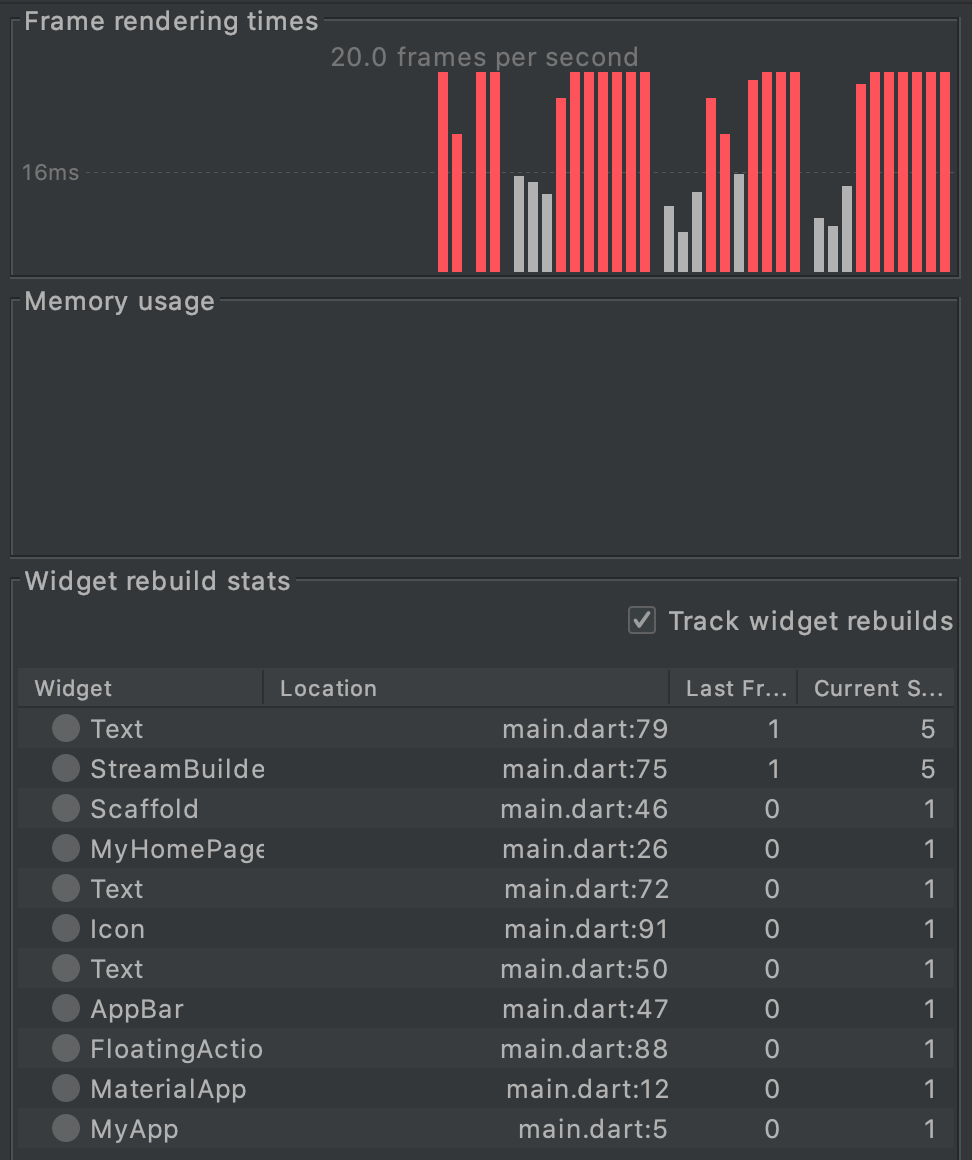
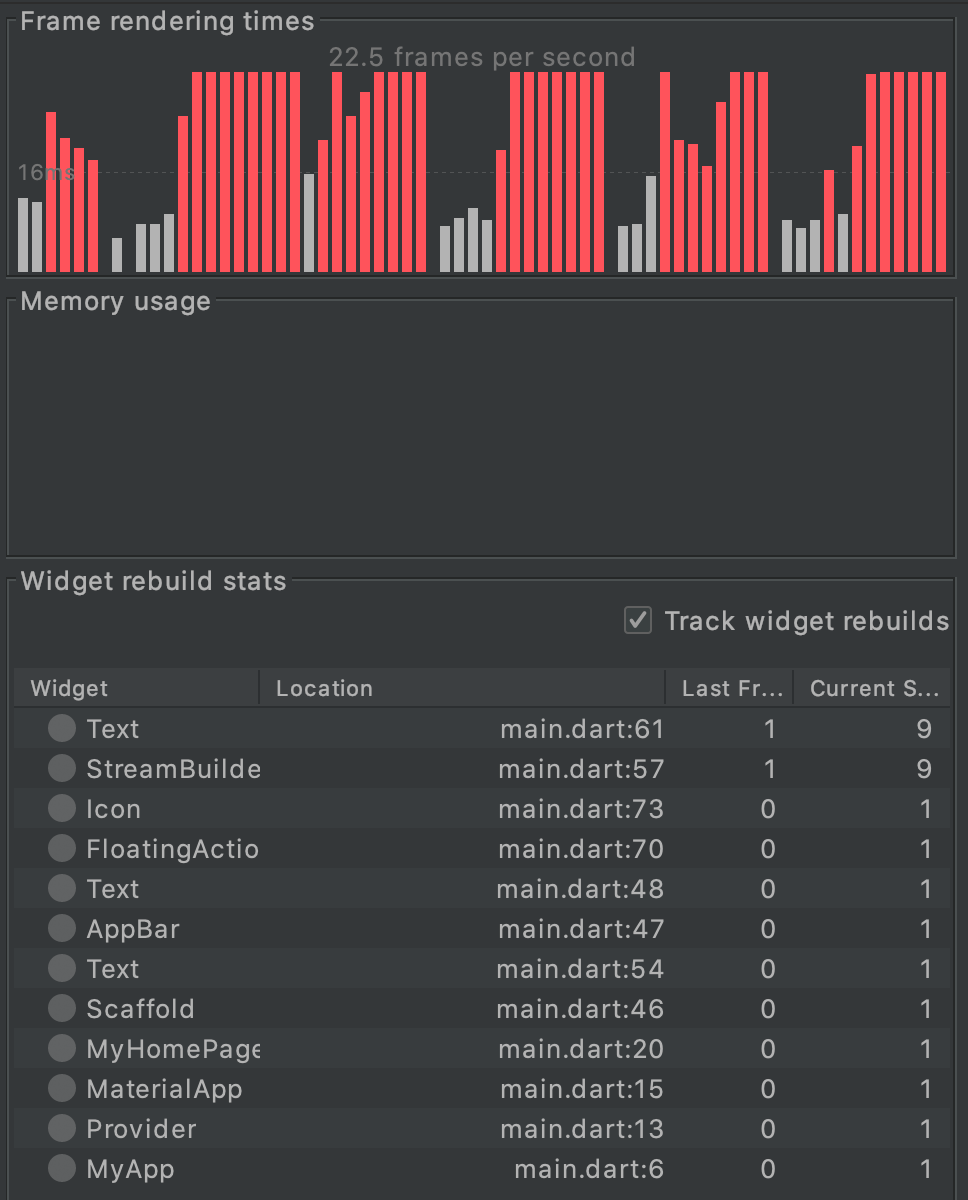
RxDart and Raw Provider Style

diff --git a/lib/main.dart b/lib/main.dart
@@ -1,4 +1,5 @@
 import 'package:flutter/material.dart';
+import 'package:provider/provider.dart';
 import 'package:rxdart/rxdart.dart';
 
 void main() {
@@ -8,13 +9,28 @@ void main() {
 class MyApp extends StatelessWidget {
   @override
   Widget build(BuildContext context) {
-    return MaterialApp(
-      title: 'Flutter Demo',
-      theme: ThemeData(
-        primarySwatch: Colors.blue,
+    return Provider(
+      create: (_) => Counter(),
+      child: MaterialApp(
+        title: 'Flutter Demo',
+        theme: ThemeData(
+          primarySwatch: Colors.blue,
+        ),
+        home: MyHomePage(title: 'Flutter Demo Home Page'),
       ),
-      home: MyHomePage(title: 'Flutter Demo Home Page'),
     );
+  }
+}
+
+class Counter {
+  final _subject = BehaviorSubject.seeded(0);
+  ValueStream<int> get stream$ => _subject.stream;
+  void increment() {
+    _subject.add(_subject.value + 1);
+  }
+
+  void dispose() {
+    _subject.close();
   }
 }
 
@@ -23,10 +39,8 @@ class MyHomePage extends StatelessWidget {
 
   final String title;
 
-  final subject = BehaviorSubject.seeded(0);
-
-  @override
   Widget build(BuildContext context) {
+    final counter = context.select((Counter c) => c);
     return Scaffold(
       appBar: AppBar(
         title: Text(title),
@@ -39,8 +53,8 @@ class MyHomePage extends StatelessWidget {
               'You have pushed the button this many times:',
             ),
             StreamBuilder(
-              stream: subject.stream,
-              initialData: subject.value,
+              stream: counter.stream$,
+              initialData: counter.stream$.value,
               builder: (_, snapshot) {
                 return Text(
                   '${snapshot.data}',
@@ -52,7 +66,7 @@ class MyHomePage extends StatelessWidget {
         ),
       ),
       floatingActionButton: FloatingActionButton(
-        onPressed: () => subject.add(subject.value + 1),
+        onPressed: counter.increment,
         tooltip: 'Increment',
         child: Icon(Icons.add),
       ), // This trailing comma makes auto-formatting nicer for build methods.

diff --git a/README.md b/README.md
@@ -2,8 +2,8 @@
 
 Flutter Architecture Sample Repository
 
-## RxDart + BehaviorSubject Style
+## RxDart + Provider (BehaviorSubject) Style
 
-* 局所的な値なら、少ない記述量でクラス内に閉じ込めることはできる
+* BehaviorSubjectをClassに追い出してProviderで取得する
 * パフォーマンスは良好
 <img src="screenshot.png"/>
